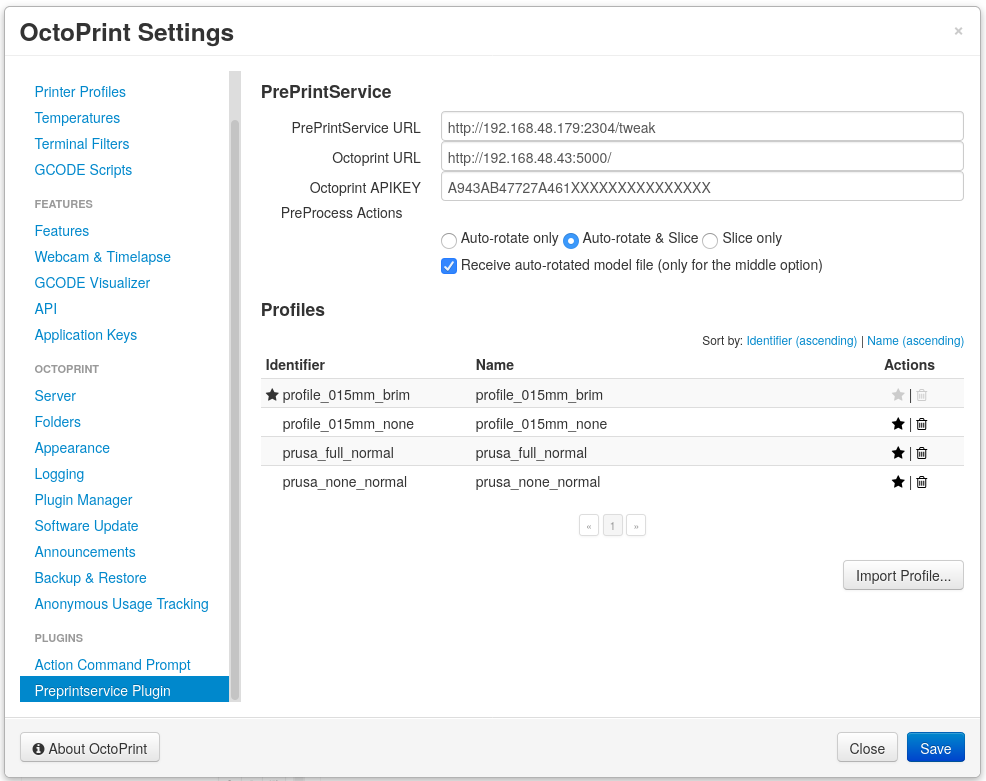
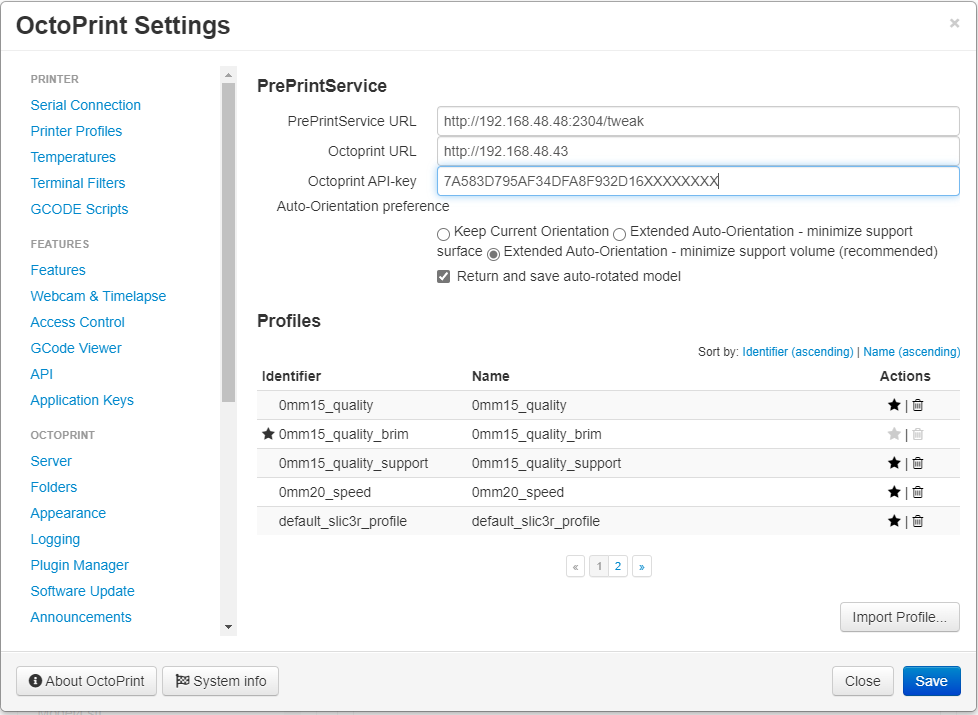
preprintservice updates (#1180)
* Python 3 support

* support python 3, octoprint >= 1.4

* support python 3, octoprint = 1.3, 1.4

* removed octoprint version 1.4.0

* update description for refactored version

Changed region(s): [[0.0, 0.0, 1.0, 1.0], [0.4601, 0.4615, 0.6442, 0.7385], [0.5828, 0.7692, 0.6748, 0.8]]

diff --git a/_plugins/preprintservice.md b/_plugins/preprintservice.md
@@ -22,6 +22,7 @@ tags:
 - stl
 - tweak
 - auto-rotate
+- auto-orientation
 - orientation
 
 
@@ -43,34 +44,31 @@ compatibility:
 
 # OctoPrint-PrePrintService
 
-This service supports your 3D printing workflow by utilizing **auto-orientation**
-and **slicing** functionality.
+OctoPrint-PrePrintService is a powerful solution designed to enhance your 3D printing workflow by automating the orientation and slicing of your 3D models. This service leverages two cutting-edge tools:
 
-The PrePrint Service is based on:
-* The **auto-rotation** software for FDM 3D printing [Tweaker-3](https://github.com/ChristophSchranz/Tweaker-3)
-* The **slicing** software [Slic3r](https://slic3r.org/)
+* **[Tweaker-3](https://github.com/ChristophSchranz/Tweaker-3) for auto-orientation of FDM 3D prints**
+* **[Slic3r](https://slic3r.org/) for slicing**
 
-You can also use a similar and prefered tool-chain by using [Cura](https://ultimaker.com/software/ultimaker-cura)
-as the Slicing software and with the Plug-Ins
-[Auto-Orientation](https://github.com/Ultimaker/Cura/wiki/Plugin-Directory)
-and [Octoprint Connection](https://github.com/Ultimaker/Cura/wiki/Plugin-Directory).
+For users of the [Cura](https://ultimaker.com/software/ultimaker-cura) slicer, a similar toolchain can be set up using the [OctoPrint Connection](https://marketplace.ultimaker.com/app/cura/plugins/fieldofview/OctoPrintPlugin) and [Auto-Orientation](https://marketplace.ultimaker.com/app/cura/plugins/nallath/OrientationPlugin) plugins.
 
-## Workflow
 
-The full workflow can be deployed either on a single machine or more generally
- on two separated nodes as described below:
+## Workflow in OctoPrint
+
+The workflow can be deployed on a single machine or across two separate nodes as demonstrated below:
 
 ![Workflow](/assets/img/plugins/preprintservice/workflow.png)
 
-The following steps will be done:
 
-1. Upload a model on Octoprint and click on the `Slice` button in the `file bar`.
-2. The model will be auto-rotated for a proper 3D print by the [Tweaker-3](https://github.com/ChristophSchranz/Tweaker-3) software.
-4. The optimized model will be sliced using [Slic3r](https://slic3r.org/).
-5. The final machine code will be sent back to the octoprint server.
-6. The printing can be started.
+The workflow consists of the following steps:
 
-Each step can be adjusted as described in the settings.
+<!-- Is the first step correct in the new layout, do we need the slicer tab? -->
+1. Upload a model on OctoPrint and click on the `Slice` button in the `file bar`.
+2. The model is auto-oriented for optimal 3D printing by [Tweaker-3](https://github.com/ChristophSchranz/Tweaker-3) software.
+4. The oriented model is then sliced by [Slic3r](https://slic3r.org/).
+5. The final machine code is sent back to the OctoPrint server.
+6. You can start your print
+
+Each step can be customized by adjusting the settings as described in the documentation.
 
 ## Requirements
 
@@ -84,99 +82,81 @@ Each step can be adjusted as described in the settings.
 
 ## Setup
 
-### 1. Install the Plugin
+### 1. Set up the PrePrintSerivce in Docker
 
-Install the **Octoprint-PrePrint Service** in the [Plugin Manager](http://docs.octoprint.org/en/master/bundledplugins/pluginmanager.html)
-, e.g., from the archive's URL `https://github.com/christophschranz/OctoPrint-PrePrintService/archive/master.zip`
-or manually using the git's URL on the Printer-Controller
+For high availability, it is recommended to deploy the PrePrint-Service in Docker.
+Make sure to select the appropriate CPU architecture of the server node in the argument `SLIC3R_VERSION` for the installation of Slic3r in `docker-compose.yml`, see [here](https://github.com/prusa3d/PrusaSlicer/releases).
 
+To run the application locally, use:
 
-### 2. Set up the (external) preprocess services in Docker
-
-In order to make the service highly available, it is recommended to deploy the
-PrePrint-Service in Docker. If you are not familiar with docker yet,
-have a quick look at the links in the [requirements-section](#requirements).
-
-Then run the application locally with:
-
-    git clone https://github.com/christophschranz/OctoPrint-PrePrintService
+    git clone https://github.com/christophschranz/OctoPrint-PrePrintService --recurse-submodules
     cd OctoPrint-PrePrintService
     docker-compose up --build -d
     docker-compose logs -f
 
-**Optional:** The `docker-compose.yml` is also configured to run in a given docker swarm,
- adapt the `docker-compose.yml` to your setup and run:
 
-    docker-compose build
-    docker-compose push
-    docker stack deploy --compose-file docker-compose.yml preprintservice
-
-The service is available on [localhost:2304/tweak](http://localhost:2304/tweak)
-(from the hosting node),
-where a simple UI is provided for testing the PrePrint Service.
-Use `docker-compose down` to stop the service. (If you ever wish :wink: )
+The service is available at [localhost:2304/tweak](http://localhost:2304/tweak) (on the server node), where a simple UI and API documentation are provided for testing the PrePrint Service. Use `docker-compose down` to stop the service.
 
 ![PrePrint Service](/assets/img/plugins/preprintservice/PrePrintService.png)
 
 
-## Configuration
+### 2. Install the PrePrintService Plugin
 
-Configure the plugin in the settings and make sure the url for the PrePrint service is set
-correct:
+Install the [**PrePrintService Plugin**](https://plugins.octoprint.org/plugins/preprintservice/) using the [Plugin Manager](http://docs.octoprint.org/en/master/bundledplugins/pluginmanager.html) (under `Get More` with the name `PrePrintService Plugin`
+or manually using the URL on the Printer-Controller
 
-![settings](/assets/img/plugins/preprintservice/settings3.png)
+Configure the plugin in the OctoPrint settings, ensuring that the URL for the PrePrint service (docker) is set correctly.
+Make also sure to use the correct URL of the Octoprint server and copy and paste the Octoprint API-key that can be found under settings, `API`.
 
-Note that the **octoprint URL must not be localhost**, as the `tweak-service` is deployed in
-a docker network where it is unable to locate it's hosts local network.
+Save and return to the OctoPrint home UI, click the Slice button on uploaded STL models, and generate printable machine code using this Preprocessing-Plugin. If the small slicing button of the STL files loaded (right of the trash symbol) is deactivated, Octoprint can't reach the PrePrintService.
 
-Finally, go back to the home UI, **click** on the **`Slice`-Button** of uploaded STL-Models and
-**produce printable machinecode** via this Preprocessing-Plugin.
+
+![PrePrint Service Settings](/assets/img/plugins/preprintservice/settings3.png)
+
+
+### 3. (optional) Install Plugins to visualize models
+
+Plugins to visualize STL models and GCode improve the workflow.
+Therefore install the **GCode Viewer**() and **Slicer**(https://github.com/kennethjiang/OctoPrint-Slicer).
+
+As soon as installed and reloaded, the new Slicer-Tab can be used to load STL-files via the model's `slice`-button and
+sent to the PrePrintService with a Slicing Profile and Output Filename.
+
+![Octoprint Slicer](/assets/img/plugins/preprintservice/OctoPrint_navbar.png)
 
 
 ## Testing
-To test the whole setup, do the following steps:
 
-1. Visit [localhost:2304/tweak](http://localhost:2304/tweak), select a stl model file
-   and make an extended Tweak (auto-rotation) `without` slicing. The output should be
-   an auto-rotated (binary) STL model. If not, check the logs of the docker-service
-   using `docker-compose logs -f` in the folder where the `docker-compose.yml` is located.
+To test the entire setup, follow these steps:
 
-2. Now, do the same `with` slicing, the resulting file should be a gcode file of the model.
-   Else, check the logs of the docker-service using `docker-compose logs -f` in the
-   same folder.
+1. Check if the docker service runs appropriately without errors: `docker-compose logs -f`
 
-3. Visit the Octoprint server, click on the **`Slice`-Button** of the uploaded
-STL-Model in the `file bar` and **produce printable machinecode** via this
-PrePrint-Service Plugin.. After some seconds a `.gco` file should be uploaded. Note that in a small time frame a
-   `.gco` file with only one line and 83 bytes can appear. This is expected and should be overwritten
-   afterwards after a short time.
-   If this doesn't work, start the octoprint server per CLI with `octoprint serve`
-   and track the logs. The following two lines are expected:
+1. Visit [localhost:2304/tweak](http://localhost:2304/tweak), select an STL model file and perform an extended Tweak (auto-rotation) without slicing. The output should be an auto-rotated (binary) STL model. If not, check the Docker service logs using `docker-compose logs -f` in the directory where `docker-compose.yml` is located.
+
+2. Repeat the process with slicing enabled. The resulting file should be a G-code file of the model. If not, check the Docker service logs using `docker-compose logs -f` in the same folder.
+
+3. Visit the OctoPrint server, click the **`Slice`-Button**  for the uploaded STL model in the file bar, and generate printable machine code using this PrePrint-Service Plugin. After a few seconds, a `.gco` file should be uploaded.
+If this doesn't work, start the OctoPrint server using the command `octoprint serve`
+ and monitor the logs with `tail -f .octoprint/logs/octoprint.log`. The following two lines are expected:
 
         2019-04-07 22:28:44,301 - octoprint.plugins.preprintservice - INFO - Connection to PrePrintService on http://192.168.48.81:2304/tweak is ready, status code 200
-        2019-04-07 22:28:44,321 - octoprint.plugins.preprintservice - INFO - Connection to Octoprint server on http://192.168.48.43:5000/api/version?apikey=A943AB47727A461F9CEF9EXXXXXXXX is ready, status code 200
-
-   If the the Octoprint Server's URL is invalid, you will see this:
-
-        2019-04-07 22:27:34,746 - octoprint.plugins.preprintservice - WARNING - "Connection to Octoprint server on http://192.168.48.43:5000 couldn't be established"
-
-   If you see instead the following, please check the APIKEY: (403 - forbidden)
-
-        2019-04-07 22:30:09,570 - octoprint.plugins.preprintservice - WARNING - Connection to Octoprint server on http://192.168.48.43:5000/api/version couldn't be established, status code 403
 
    If the the PrePrint Server can't be reached, you will see this:
 
-        2019-04-07 22:27:34,746 - octoprint.plugins.preprintservice - WARNING - Connection to PrePrint Server on http://192.168.48.81:2304/asdf couldn't be established
+        2019-04-07 22:27:34,746 - octoprint.plugins.preprintservice - WARNING - Connection to PrePrint Server on http://192.168.48.81:2304/tweak couldn't be established
 
-   Make also sure that your selected `profile` file is correct.
+   Make also sure that your selected `profile` file is correct. An invalid profile would look result in:
 
-If you have any troubles in setting this plugin up or tips to improve this instruction,
- please let me know!
+        2020-02-05 21:20:28,777 - octoprint.plugins.preprintservice - ERROR - Got http error code 500 on request http://192.168.48.48:2304/tweak
+        2020-02-05 21:20:28,778 - octoprint.plugins.preprintservice - INFO - Couldn't post to http://192.168.48.48:2304/tweak
+
+If you encounter any issues setting up this plugin or have suggestions for improving these instructions, please let us know!
 
 
 ## PrePrint-Service API
 
-You can use this API to preprocess your models for 3D printing.
+You can use the API to preprocess your models for 3D printing. The documentation is available when the server is running at  [http://localhost:2304/api/](http://localhost:2304/api/). 
+To interact with the API in Python, follow the example below:
 
 ```python
 import requests
@@ -195,38 +175,54 @@ r = requests.post(url, files={'model': open(model_path, 'rb'),
                               'profile': open(profile_path, 'rb')},
                 data={"machinecode_name": output_path,
                         "tweak_actions": "slice"})
+
 # Auto-rotate and slice the model file
 r = requests.post(url, files={'model': open(model_path, 'rb'), 'profile': open(profile_path, 'rb')},
                   data={"machinecode_name": output_path, "tweak_actions": "tweak slice"})
 print(r.status_code)
-object = r.text
+return_object = r.text
 ```
 
-The resulting object, either a tweaked stl file or a gcode file is
-accessible via `r.text` which can be some MB large.
+The resulting object, either a tweaked STL file or a G-code file, is accessible via `r.text`, which may be several MB in size.
 
-Information of how to interact with Octoprint's API is depicted [here](http://docs.octoprint.org/en/master/api/files.html#upload-file-or-create-folder).
-For example, you can test the file upload API like this:
+Information on interacting with OctoPrint's API is available [here](http://docs.octoprint.org/en/master/api/files.html#upload-file-or-create-folder).
+You can test the file upload API using the following example:
 
 ```python
 import json
 import requests
 
-# Octoprint's URL using the default port 5000 and the API including the API-key
+# OctoPrint's URL using the default port 5000 and the API including the API-key
 url = "http://192.168.48.43:5000/api/files/local?apikey=A943AB47727A461XXXXXXXXXXXX"
 model_path = 'preprintservice_src/uploads/model.stl'
-files = {'file': open(model_path, 'rb')}
 
-# Upload a file using Octoprint's API
-r = requests.post(url=url, files=files)
+# Upload a file using OctoPrint's API
+r = requests.post(url=url, files={'file': open(model_path, 'rb')})
 print(r.status_code)
 print(json.dumps(r.json(), indent=2))
 ```
 
-I hope this workflow for 3D print preprocessing helps you!
+
+## Common issues
+
+- `docker-compose` returns an error about unsupported CPU, e.g.:
+   ```
+   ERROR: for pre-print-service  Cannot create container for service pre-print-service: NanoCPUs can not be set, as your kernel does not support CPU CFS scheduler or the cgroup is not mounted
+   ERROR: Encountered errors while bringing up the project.
+   ```
+   The reason could be that the container trys to install Slic3r for the wrong CPU architecture. 
+   Select an appropriate `SLIC3R_VERSION` in the `args` field in `docker-compose.yml`, i.e., `x64` for most servers and `armv7l` for a Raspberry Pi.
 
 
-## Donation
+## Note of the developer
+
+I hope this PrePrintService improves your 3D printing workflow!
+
+When using in academic works please cite:
+
+```
+Schranz, C. (2016). Tweaker - Auto Rotation Module for FDM 3D Printing. https://doi.org/10.13140/RG.2.2.27593.36966
+```
 
 This plugin, as well as the auto-rotation module
 [Tweaker-3](https://github.com/ChristophSchranz/Tweaker-3) was developed in my spare time.
